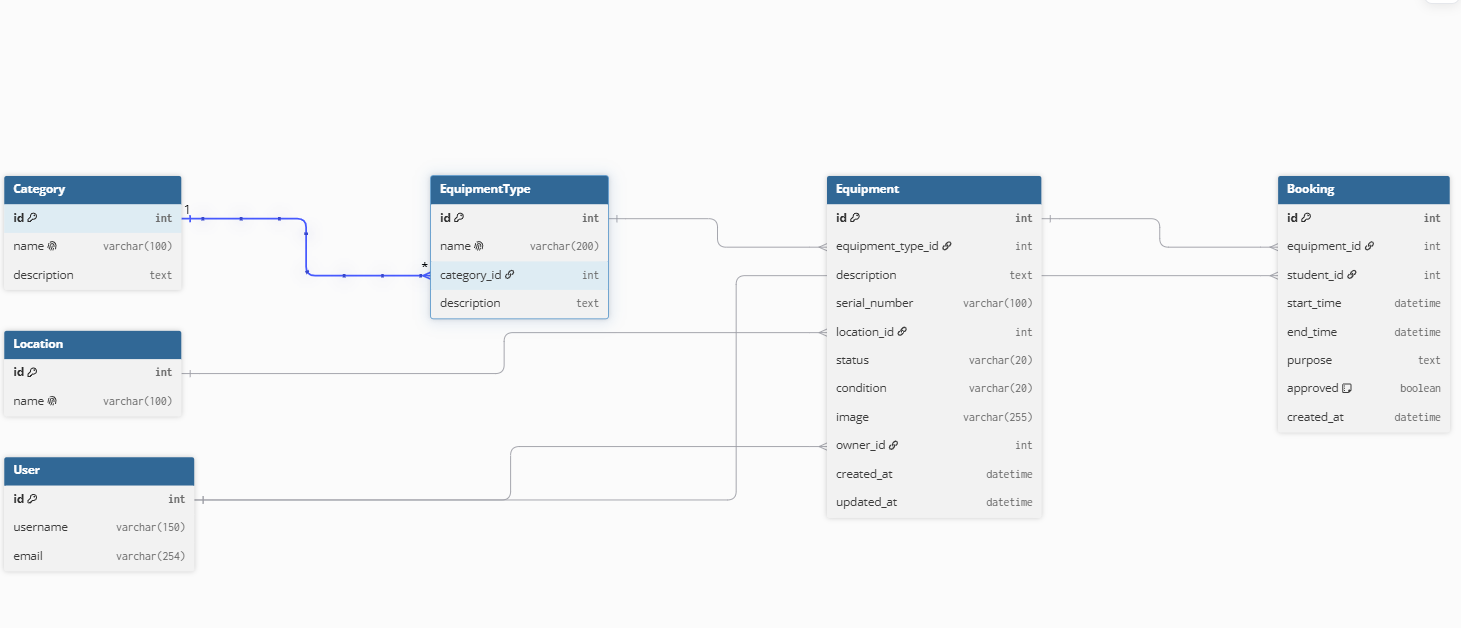
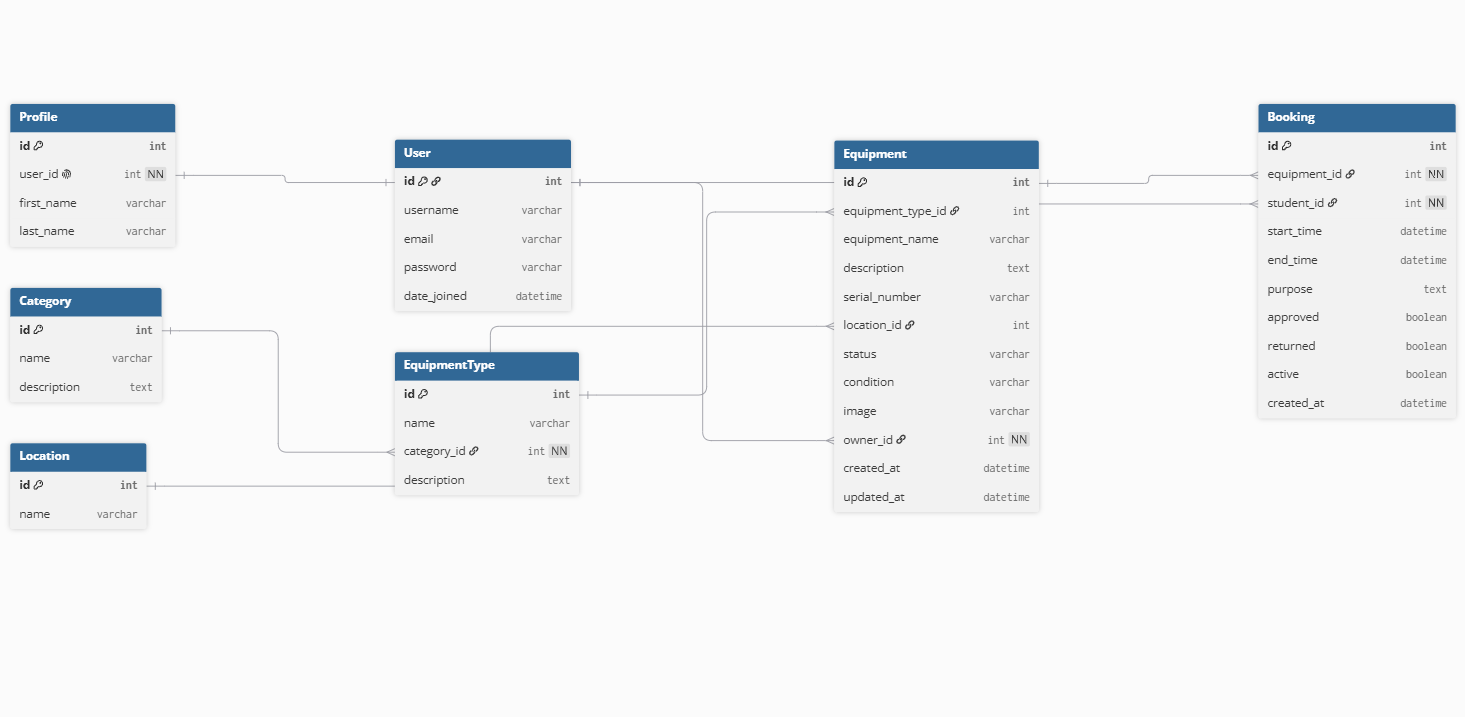
UPDATE README

diff --git a/README.md b/README.md
@@ -148,6 +148,7 @@ Clicked equipment types
 ![View equiments types](docs/webpage/booking-2.png)
 
 Equipment status:
+
 ![View status](docs/webpage/equipment-07.png)
 
 Equipment create, read, update and delete:
@@ -171,13 +172,50 @@ Equipment create, read, update and delete:
 
 * Mange bookings - Caretaker can see all the bookings from students in the caretaker dashboard page.
 
-Caretaker views the booking from students and approve:
 
-![View Bookings](docs/webpage/booking-1.png)
+Students makes a booking: 
 
-Students can see all the made bookings that the student have made:
+![Student booking](docs/webpage/booking-demo-03.png)
 
-![Student booking](docs/webpage/booking-3.png)
+![Student booking](docs/webpage/booking-demo-05.png)
+
+![Student booking](docs/webpage/booking-demo-06.png)
+
+Caretaker recives a booking on caretaker manage booking page:
+
+![Caretaker booking recive](docs/webpage/booking-demo-10.png)
+
+Caretaker approves student booking:
+
+
+![Caretaker approve](docs/webpage/booking-demo-12.png)
+
+
+![Caretaker approve](docs/webpage/booking-demo-13.png)
+
+Student recives status updated and can return equipment when caretaker approves:
+
+![Student view booking](docs/webpage/booking-demo-11.png)
+
+Student wants to return equipment:
+![Student view booking](docs/webpage/booking-demo-09.png)
+
+![Student view booking](docs/webpage/booking-demo-16.png)
+
+![Caretaker return bookings](docs/webpage/booking-demo-15.png)
+
+Caretaker recives return request on caretaker page and confirms:
+
+![Caretaker return bookings](docs/webpage/booking-demo-14.png)
+
+
+![Caretaker return message](docs/webpage/booking-demo-02.png)
+
+Student gets updated status badge when caretaker have confirmed returns:
+
+![Caretaker return message](docs/webpage/booking-demo-01.png)
+
+
 
 
 ### Caretaker dashboard page
@@ -190,7 +228,7 @@ Students can see all the made bookings that the student have made:
 
 Caretaker dashboard page:
 
-![Caretaker page](docs/webpage/caretaker-01.png)
+![Caretaker page](docs/webpage/booking-demo-07.png)
 
 
 Caretaker edit category page:
